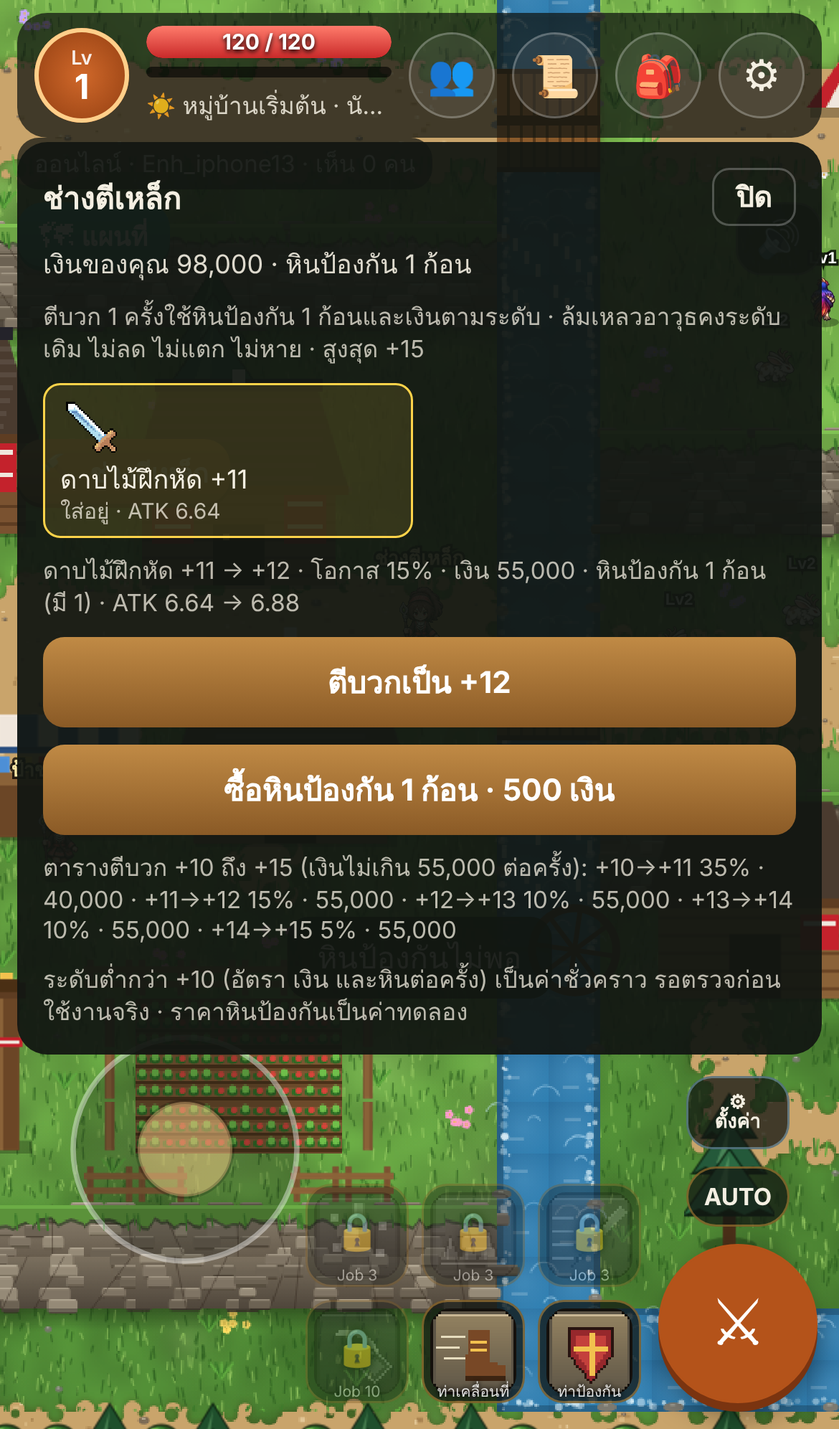
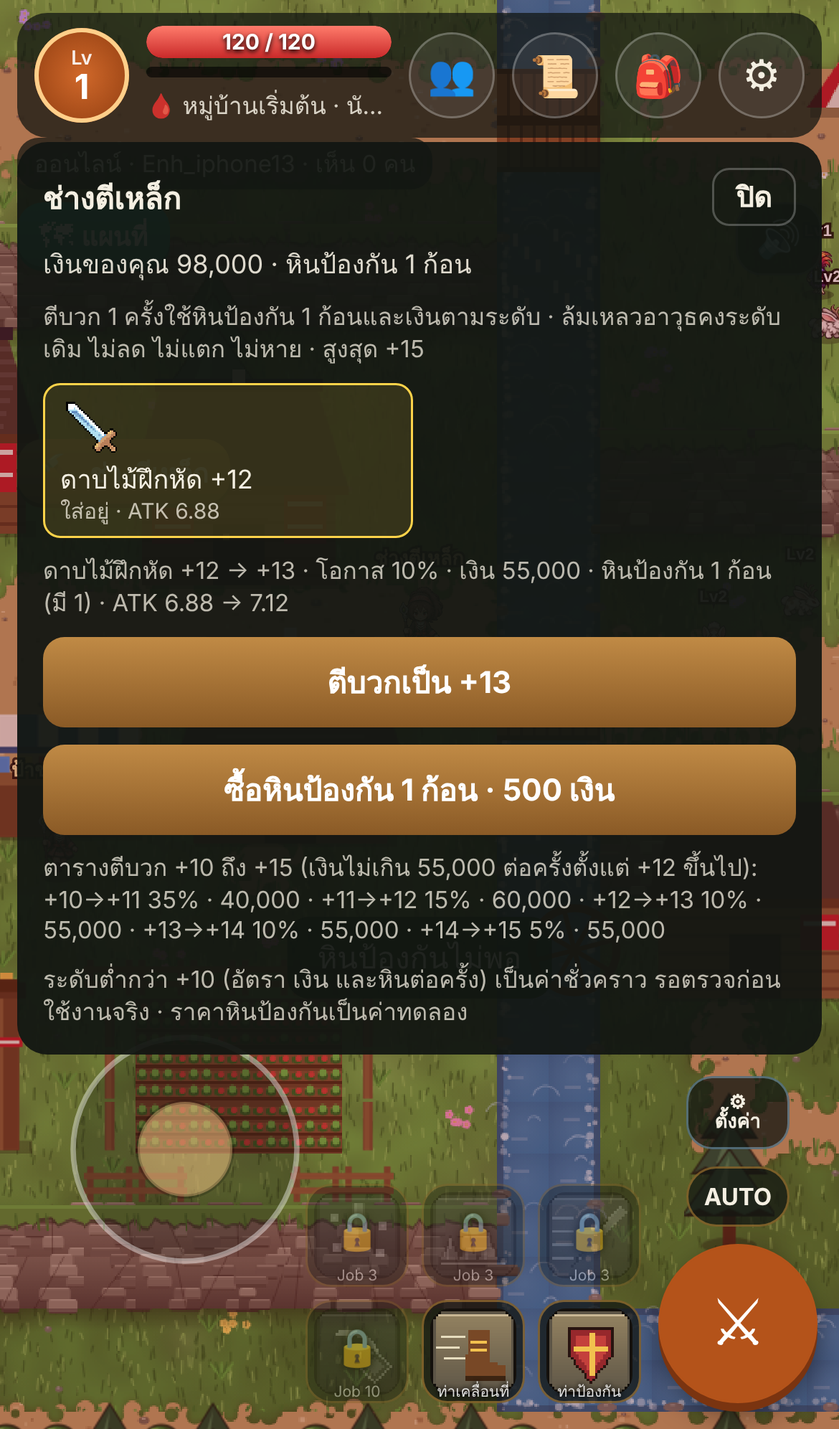
V2-R80: enhancement gold cap of 55,000 applies from +12 upward
- Owner instruction "ตั้งแต่ 12+ ขึ้นไป": the cap applies to enhancements that start at +12 or above
  (+12 to +13, +13 to +14, +14 to +15). CFG.enhance.goldCapFrom = 12.
  The +11 to +12 step is back to its V1.2 value of 60,000 (V2-R79 had capped from +11).
- Server (sim.enhance) and the panel (enhGold) use the same rule.
- Total gold for +10 to +15: 2,714,286 (V2-R79: 2,680,952; before the cap: 6,814,286).
  Attempts and stones unchanged (49.5).
- Tests: tools/enh-test.js 60/60 (+11 keeps 60,000 and is not capped; +12 costs 55,000 on the
  server and in the panel on both phone viewports). sim 120, online 104, smoke 152.
  /healthz reports V2-R80. Shop, class-weapon, idle, splash-login and character audit were
  not rerun after this change.

Claude-Session: https://claude.ai/code/session_01Fx9SAiv1fdMtU2kmML8rNS

diff --git a/game/index.html b/game/index.html
@@ -597,8 +597,8 @@ const CFG={
  /* เศรษฐกิจ (V2-R73): เงินเริ่มต้น · เงินต่อค่าประสบการณ์ของมอนสเตอร์ · เงินบอส · ระยะซื้อของ (ช่อง) — ค่าทดลอง */
  economy:{startGold:100,goldPerExp:.12,bossGold:150,shopRange:3.5},
  /* ตีบวกอาวุธ (V2-R78 · ข้อกำหนด V1.2 ฉบับยืนยัน): steps[ระดับปัจจุบัน] = โอกาสสำเร็จ · เงินต่อครั้ง · หินป้องกันต่อครั้ง
-    ยืนยันแล้ว: +10 ถึง +15 · ระดับ +0 ถึง +9 (prov:1) เป็นค่าชั่วคราวรอตรวจ · goldCap 55,000 = เพดานเงินต่อการพยายาม (คำสั่งเจ้าของ V2-R79; steps คงค่า V1.2 ไว้ให้ตรวจย้อนหลัง) · powerPerLv (ATK ต่อระดับตีบวก) เป็นค่าทดลอง ยังไม่มีข้อกำหนดยืนยัน */
- enhance:{cap:15,stone:'enh_stone',powerPerLv:.06,cooldownMs:800,goldCap:55000,steps:[{rate:1,gold:2000,stone:1,prov:1},{rate:1,gold:2000,stone:1,prov:1},{rate:1,gold:2000,stone:1,prov:1},{rate:.85,gold:5000,stone:1,prov:1},{rate:.85,gold:5000,stone:1,prov:1},{rate:.85,gold:5000,stone:1,prov:1},{rate:.65,gold:15000,stone:1,prov:1},{rate:.65,gold:15000,stone:1,prov:1},{rate:.65,gold:15000,stone:1,prov:1},{rate:.65,gold:15000,stone:1,prov:1},{rate:.35,gold:40000,stone:1},{rate:.15,gold:60000,stone:1},{rate:.1,gold:90000,stone:1},{rate:.1,gold:140000,stone:1},{rate:.05,gold:200000,stone:1}]},
+    ยืนยันแล้ว: +10 ถึง +15 · ระดับ +0 ถึง +9 (prov:1) เป็นค่าชั่วคราวรอตรวจ · goldCap 55,000 = เพดานเงินต่อการพยายามตั้งแต่ระดับ goldCapFrom (+12) ขึ้นไป (คำสั่งเจ้าของ V2-R79; ขอบเขตแก้ใน V2-R80; steps คงค่า V1.2 ไว้ให้ตรวจย้อนหลัง) · powerPerLv (ATK ต่อระดับตีบวก) เป็นค่าทดลอง ยังไม่มีข้อกำหนดยืนยัน */
+ enhance:{cap:15,stone:'enh_stone',powerPerLv:.06,cooldownMs:800,goldCapFrom:12,goldCap:55000,steps:[{rate:1,gold:2000,stone:1,prov:1},{rate:1,gold:2000,stone:1,prov:1},{rate:1,gold:2000,stone:1,prov:1},{rate:.85,gold:5000,stone:1,prov:1},{rate:.85,gold:5000,stone:1,prov:1},{rate:.85,gold:5000,stone:1,prov:1},{rate:.65,gold:15000,stone:1,prov:1},{rate:.65,gold:15000,stone:1,prov:1},{rate:.65,gold:15000,stone:1,prov:1},{rate:.65,gold:15000,stone:1,prov:1},{rate:.35,gold:40000,stone:1},{rate:.15,gold:60000,stone:1},{rate:.1,gold:90000,stone:1},{rate:.1,gold:140000,stone:1},{rate:.05,gold:200000,stone:1}]},
  classWeapon:{'นักดาบ':'sword','นักธนู':'bow','นักฆ่า':'daggers','นักสู้':'fists','ผู้สืบวิญญาณ':'staff','ผู้รักษา':'leafstaff','ผู้ใช้มนตรา':'book','ผู้พิทักษ์':'shield'},
  /* NPC ร้านค้า (V2-R73): ตำแหน่งเป็นช่อง · ร้านขาย [ไอเทม, ราคา] — ค่าทดลอง ยังไม่มีข้อกำหนดยืนยัน */
  npcs:[{id:'shop1',name:'ป้าขายของ',zone:'village',tx:12.5,ty:18.6,shop:[['potion_s',10],['potion_m',30],['sword_wood',50],['sword_iron',150],['bow_wood',50],['bow_iron',150],['daggers_wood',50],['daggers_iron',150],['fists_wood',50],['fists_iron',150],['staff_wood',50],['staff_iron',150],['leafstaff_wood',50],['leafstaff_iron',150],['book_wood',50],['book_iron',150],['shield_wood',50],['shield_iron',150]]},{id:'shop2',name:'ป้าขายของ',zone:'village2',tx:22.5,ty:22.6,shop:[['potion_s',10],['potion_m',30],['sword_wood',50],['sword_iron',150],['bow_wood',50],['bow_iron',150],['daggers_wood',50],['daggers_iron',150],['fists_wood',50],['fists_iron',150],['staff_wood',50],['staff_iron',150],['leafstaff_wood',50],['leafstaff_iron',150],['book_wood',50],['book_iron',150],['shield_wood',50],['shield_iron',150]]},{id:'smith1',name:'ช่างตีเหล็ก',role:'smith',zone:'village',tx:19.5,ty:14.5,shop:[['enh_stone',500]]},{id:'smith2',name:'ช่างตีเหล็ก',role:'smith',zone:'village2',tx:25.5,ty:15.5,shop:[['enh_stone',500]]}],
@@ -1814,6 +1814,7 @@ function enhStones(){let n=0;for(const s of NET.bag)if(s.id===HL.CFG.enhance.sto
 function enhAtk(id,lv){return Math.round(((HL.CFG.items[id]||{}).atk||0)*(1+HL.CFG.enhance.powerPerLv*lv)*100)/100} /* ทศนิยม 2 ตำแหน่ง: อาวุธ ATK ต่ำ โบนัสต่อระดับจะไม่หายไปจากการปัดเศษ */
 function enhCur(ws){if(!ws.length)return null;const hit=enhSel&&ws.find(w=>w.src===enhSel.src&&w.i===enhSel.i);if(hit)return hit;enhSel={src:ws[0].src,i:ws[0].i};return ws[0]}
 function enhNum(n){return Number(n).toLocaleString('en-US')}
+function enhGold(lv){const E=HL.CFG.enhance,s=E.steps[lv];return lv>=E.goldCapFrom?Math.min(s.gold,E.goldCap):s.gold} /* เงินต่อการพยายามจริง: เพดานมีผลตั้งแต่ระดับ goldCapFrom ขึ้นไป */
 function enhNote(t,cls){const d=document.createElement('div');d.className=cls||'note';d.textContent=t;enhP.appendChild(d)}
 function enhGo(w){if(enhBusy||!w)return;enhBusy=true;enhRid++;send({t:'enh',src:w.src,i:w.i,rid:'e'+enhRid+'-'+Date.now().toString(36)});setTimeout(()=>{if(enhBusy){enhBusy=false;renderEnh()}},3000);renderEnh()}
 function renderEnh(){if(enhP.hidden)return;const E=HL.CFG.enhance,I=HL.CFG.items,sm=shopNpc&&shopNpc.role==='smith'?shopNpc:null;enhP.innerHTML='';
@@ -1832,10 +1833,10 @@ function renderEnh(){if(enhP.hidden)return;const E=HL.CFG.enhance,I=HL.CFG.items
   if(cur){const it=I[cur.id],lv=cur.enh;
     if(lv>=E.cap)enhNote(it.name+' ถึงระดับสูงสุด +'+E.cap+' แล้ว');
     else{const s=E.steps[lv];
-      enhNote(it.name+' +'+lv+' → +'+(lv+1)+' · โอกาส '+Math.round(s.rate*100)+'% · เงิน '+enhNum(Math.min(s.gold,E.goldCap))+' · หินป้องกัน '+s.stone+' ก้อน (มี '+enhStones()+') · ATK '+enhAtk(cur.id,lv)+' → '+enhAtk(cur.id,lv+1)+(s.prov?' · ค่าชั่วคราว':''));
+      enhNote(it.name+' +'+lv+' → +'+(lv+1)+' · โอกาส '+Math.round(s.rate*100)+'% · เงิน '+enhNum(enhGold(lv))+' · หินป้องกัน '+s.stone+' ก้อน (มี '+enhStones()+') · ATK '+enhAtk(cur.id,lv)+' → '+enhAtk(cur.id,lv+1)+(s.prov?' · ค่าชั่วคราว':''));
       const go=document.createElement('button');go.className='enhgo';go.textContent=enhBusy?'กำลังตีบวก…':'ตีบวกเป็น +'+(lv+1);go.disabled=enhBusy;go.onclick=()=>enhGo(cur);enhP.appendChild(go)}}
   if(sm){const row=sm.shop.find(r=>r[0]===E.stone),bb=document.createElement('button');bb.className='enhgo';bb.textContent='ซื้อหินป้องกัน 1 ก้อน · '+enhNum(row?row[1]:0)+' เงิน';bb.onclick=()=>send({t:'shop',npc:sm.id,id:E.stone,n:1});enhP.appendChild(bb)}
-  enhNote('ตารางตีบวก +10 ถึง +15 (เงินไม่เกิน '+enhNum(E.goldCap)+' ต่อครั้ง): '+E.steps.slice(10).map((s,k)=>'+'+(k+10)+'→+'+(k+11)+' '+Math.round(s.rate*100)+'% · '+enhNum(Math.min(s.gold,E.goldCap))).join(' · '));
+  enhNote('ตารางตีบวก +10 ถึง +15 (เงินไม่เกิน '+enhNum(E.goldCap)+' ต่อครั้งตั้งแต่ +'+E.goldCapFrom+' ขึ้นไป): '+E.steps.slice(10).map((s,k)=>'+'+(k+10)+'→+'+(k+11)+' '+Math.round(s.rate*100)+'% · '+enhNum(enhGold(k+10))).join(' · '));
   enhNote('ระดับต่ำกว่า +10 (อัตรา เงิน และหินต่อครั้ง) เป็นค่าชั่วคราว รอตรวจก่อนใช้งานจริง · ราคาหินป้องกันเป็นค่าทดลอง');
 }
 /* หน้าต่างสถานะ (V2-R24): แตะวงเลเวลมุมซ้ายบน */

diff --git a/tools/enh-test.js b/tools/enh-test.js
@@ -25,7 +25,7 @@ const countStone = c => c.bag.reduce((n, s) => n + (s.id === EH.stone ? s.n : 0)
 {
   const V12 = [[.35, 40000], [.15, 60000], [.10, 90000], [.10, 140000], [.05, 200000]];
   rec('ระดับตีบวกสูงสุด +15', EH.cap === 15);
-  rec('เพดานเงินต่อการพยายาม 55,000 (คำสั่งเจ้าของ V2-R79)', EH.goldCap === 55000);
+  rec('เพดาน 55,000 เริ่มตั้งแต่ระดับ +12 ขึ้นไป (คำสั่งเจ้าของ V2-R80)', EH.goldCap === 55000 && EH.goldCapFrom === 12);
   rec('ตารางที่ยืนยันแล้ว +10→+11 ถึง +14→+15 (โอกาส · เงิน · หินป้องกัน 1)', V12.every(([r, g], k) => { const s = EH.steps[10 + k]; return s.rate === r && s.gold === g && s.stone === 1 && !s.prov; }));
   rec('ค่าต่ำกว่า +10 ติดธง prov (ค่าชั่วคราว รอตรวจ)', EH.steps.slice(0, 10).every(s => s.prov === 1));
   rec('หินป้องกันเป็นวัตถุดิบ (mat)', !!C.items[EH.stone] && C.items[EH.stone].type === 'mat');
@@ -71,10 +71,15 @@ const countStone = c => c.bag.reduce((n, s) => n + (s.id === EH.stone ? s.n : 0)
   rec('ล้มเหลวที่ +10 → คงที่ +10 ไม่ลด ไม่หาย', !r9.ok && r9.to === 10 && p9.c.enh.weapon === 10 && p9.c.eq.weapon === 'sword_hmong' && p9.c.gold === 1000000 - 40000 && countStone(p9.c) === 1, JSON.stringify({ ok: r9.ok, enh: p9.c.enh.weapon, gold: p9.c.gold, stone: countStone(p9.c) }));
   const p10 = mk({ enh: { weapon: 15 }, eq: { weapon: 'sword_hmong', armor: null, acc: null } }); p10.c.bag.push({ id: 'enh_stone', n: 2 });
   rec('ถึง +15 แล้ว → max (ตีบวกต่อไม่ได้)', simLow.enhance(p10, { src: 'eq', rid: rid() }, 600) === 'max');
-  // เพดานเงินต่อการพยายาม 55,000: ขั้น +11 ถึง +14 จ่ายไม่เกิน 55,000 (ค่า V1.2 เดิม 60,000 ถึง 200,000) · ขั้น +10 ยัง 40,000
+  // เพดาน 55,000 เริ่มตั้งแต่ระดับ +12 ขึ้นไป: ที่ +11 ยังจ่าย 60,000 (ค่า V1.2) และที่ +12 จ่ายไม่เกิน 55,000 (จาก 90,000)
   const pC = mk({ gold: 55000, enh: { weapon: 11 }, eq: { weapon: 'sword_hmong', armor: null, acc: null } }); pC.c.bag.push({ id: 'enh_stone', n: 1 });
-  const rC = sim.enhance(pC, { src: 'eq', rid: rid() }, 800);
-  rec('ตีบวกจาก +11 จ่ายเพียง 55,000 (ไม่ใช่ 60,000) และหักครบ', rC.ok && rC.to === 12 && rC.gold === 55000 && pC.c.gold === 0, JSON.stringify({ gold: rC.gold, left: pC.c.gold, to: rC.to }));
+  rec('ที่ +11 ยังต้อง 60,000 (ไม่ถูกจำกัด) → เงิน 55,000 ไม่พอ', sim.enhance(pC, { src: 'eq', rid: rid() }, 800) === 'no-gold' && pC.c.gold === 55000);
+  const pC11 = mk({ gold: 60000, enh: { weapon: 11 }, eq: { weapon: 'sword_hmong', armor: null, acc: null } }); pC11.c.bag.push({ id: 'enh_stone', n: 1 });
+  const rC11 = sim.enhance(pC11, { src: 'eq', rid: rid() }, 800);
+  rec('ตีบวกจาก +11 จ่าย 60,000 (ค่า V1.2) และหักครบ', rC11.ok && rC11.to === 12 && rC11.gold === 60000 && pC11.c.gold === 0, JSON.stringify({ gold: rC11.gold, left: pC11.c.gold, to: rC11.to }));
+  const pC12 = mk({ gold: 55000, enh: { weapon: 12 }, eq: { weapon: 'sword_hmong', armor: null, acc: null } }); pC12.c.bag.push({ id: 'enh_stone', n: 1 });
+  const rC12 = sim.enhance(pC12, { src: 'eq', rid: rid() }, 800);
+  rec('ตีบวกจาก +12 จ่ายเพียง 55,000 (ไม่ใช่ 90,000) และหักครบ', rC12.ok && rC12.to === 13 && rC12.gold === 55000 && pC12.c.gold === 0, JSON.stringify({ gold: rC12.gold, left: pC12.c.gold, to: rC12.to }));
   const pC2 = mk({ gold: 54999, enh: { weapon: 14 }, eq: { weapon: 'sword_hmong', armor: null, acc: null } }); pC2.c.bag.push({ id: 'enh_stone', n: 1 });
   rec('เงิน 54,999 ไม่พอสำหรับ +14 (เพดาน 55,000) → no-gold และไม่หัก', sim.enhance(pC2, { src: 'eq', rid: rid() }, 800) === 'no-gold' && pC2.c.gold === 54999);
   const pT = mk({ gold: 40000, enh: { weapon: 10 }, eq: { weapon: 'sword_hmong', armor: null, acc: null } }); pT.c.bag.push({ id: 'enh_stone', n: 1 });
@@ -206,11 +211,15 @@ const countStone = c => c.bag.reduce((n, s) => n + (s.id === EH.stone ? s.n : 0)
     await page.click('#shb');
     await page.waitForSelector('#enh:not([hidden])', { timeout: 5000 });
     await sleep(400);
-    // เพดานเงินต่อการพยายาม: ที่ +11 ต้องแสดงเงิน 55,000 (ไม่ใช่ 60,000) — ถ่ายภาพที่สถานะนี้ แล้วคืนค่าเดิมสำหรับการตรวจฐานข้อมูลด้านล่าง
+    // ขอบเขตเพดาน: ตั้งแต่ระดับ +12 ขึ้นไปเท่านั้น — ที่ +11 แสดง 60,000 และที่ +12 แสดง 55,000 (ถ่ายภาพที่ +12) แล้วคืนค่าเดิมสำหรับการตรวจฐานข้อมูลด้านล่าง
     p.c.enh.weapon = 11; p.c.bag.push({ id: 'enh_stone', n: 1 }); p.bagDirty = true; p.dirty = true;
     await page.waitForFunction(() => (document.getElementById('enh').innerText || '').includes('+11 → +12'), null, { timeout: 6000 });
     const t11 = await panel();
-    rec(label + ': หน้าช่างที่ +11 แสดงเงิน 55,000 (เพดาน) ไม่ใช่ 60,000', t11.includes('เงิน 55,000') && !t11.includes('เงิน 60,000'), t11.split('\n').filter(l => l.includes('+11 → +12')).join(' | ').slice(0, 140));
+    rec(label + ': หน้าช่างที่ +11 แสดงเงิน 60,000 (ยังไม่ถึงเพดาน)', t11.includes('เงิน 60,000') && !t11.includes('เงิน 55,000'), t11.split('\n').filter(l => l.includes('+11 → +12')).join(' | ').slice(0, 140));
+    p.c.enh.weapon = 12; p.bagDirty = true; p.dirty = true;
+    await page.waitForFunction(() => (document.getElementById('enh').innerText || '').includes('+12 → +13'), null, { timeout: 6000 });
+    const t12 = await panel();
+    rec(label + ': หน้าช่างที่ +12 แสดงเงิน 55,000 (เพดานตั้งแต่ +12)', t12.includes('เงิน 55,000') && !t12.includes('เงิน 90,000'), t12.split('\n').filter(l => l.includes('+12 → +13')).join(' | ').slice(0, 140));
     await page.screenshot({ path: path.join(evDir, shot) });
     p.c.enh.weapon = 1; p.c.bag = p.c.bag.filter(x => x.id !== 'enh_stone'); p.bagDirty = true; p.dirty = true;
     rec(label + ': ไม่มี JavaScript error', errors.length === 0, errors.slice(0, 3).join(' | ') || 'ไม่มี');

diff --git a/shared/world.js b/shared/world.js
@@ -299,8 +299,8 @@ const CFG={
  /* เศรษฐกิจ (V2-R73): เงินเริ่มต้น · เงินต่อค่าประสบการณ์ของมอนสเตอร์ · เงินบอส · ระยะซื้อของ (ช่อง) — ค่าทดลอง */
  economy:{startGold:100,goldPerExp:.12,bossGold:150,shopRange:3.5},
  /* ตีบวกอาวุธ (V2-R78 · ข้อกำหนด V1.2 ฉบับยืนยัน): steps[ระดับปัจจุบัน] = โอกาสสำเร็จ · เงินต่อครั้ง · หินป้องกันต่อครั้ง
-    ยืนยันแล้ว: +10 ถึง +15 · ระดับ +0 ถึง +9 (prov:1) เป็นค่าชั่วคราวรอตรวจ · goldCap 55,000 = เพดานเงินต่อการพยายาม (คำสั่งเจ้าของ V2-R79; steps คงค่า V1.2 ไว้ให้ตรวจย้อนหลัง) · powerPerLv (ATK ต่อระดับตีบวก) เป็นค่าทดลอง ยังไม่มีข้อกำหนดยืนยัน */
- enhance:{cap:15,stone:'enh_stone',powerPerLv:.06,cooldownMs:800,goldCap:55000,steps:[{rate:1,gold:2000,stone:1,prov:1},{rate:1,gold:2000,stone:1,prov:1},{rate:1,gold:2000,stone:1,prov:1},{rate:.85,gold:5000,stone:1,prov:1},{rate:.85,gold:5000,stone:1,prov:1},{rate:.85,gold:5000,stone:1,prov:1},{rate:.65,gold:15000,stone:1,prov:1},{rate:.65,gold:15000,stone:1,prov:1},{rate:.65,gold:15000,stone:1,prov:1},{rate:.65,gold:15000,stone:1,prov:1},{rate:.35,gold:40000,stone:1},{rate:.15,gold:60000,stone:1},{rate:.1,gold:90000,stone:1},{rate:.1,gold:140000,stone:1},{rate:.05,gold:200000,stone:1}]},
+    ยืนยันแล้ว: +10 ถึง +15 · ระดับ +0 ถึง +9 (prov:1) เป็นค่าชั่วคราวรอตรวจ · goldCap 55,000 = เพดานเงินต่อการพยายามตั้งแต่ระดับ goldCapFrom (+12) ขึ้นไป (คำสั่งเจ้าของ V2-R79; ขอบเขตแก้ใน V2-R80; steps คงค่า V1.2 ไว้ให้ตรวจย้อนหลัง) · powerPerLv (ATK ต่อระดับตีบวก) เป็นค่าทดลอง ยังไม่มีข้อกำหนดยืนยัน */
+ enhance:{cap:15,stone:'enh_stone',powerPerLv:.06,cooldownMs:800,goldCapFrom:12,goldCap:55000,steps:[{rate:1,gold:2000,stone:1,prov:1},{rate:1,gold:2000,stone:1,prov:1},{rate:1,gold:2000,stone:1,prov:1},{rate:.85,gold:5000,stone:1,prov:1},{rate:.85,gold:5000,stone:1,prov:1},{rate:.85,gold:5000,stone:1,prov:1},{rate:.65,gold:15000,stone:1,prov:1},{rate:.65,gold:15000,stone:1,prov:1},{rate:.65,gold:15000,stone:1,prov:1},{rate:.65,gold:15000,stone:1,prov:1},{rate:.35,gold:40000,stone:1},{rate:.15,gold:60000,stone:1},{rate:.1,gold:90000,stone:1},{rate:.1,gold:140000,stone:1},{rate:.05,gold:200000,stone:1}]},
  classWeapon:{'นักดาบ':'sword','นักธนู':'bow','นักฆ่า':'daggers','นักสู้':'fists','ผู้สืบวิญญาณ':'staff','ผู้รักษา':'leafstaff','ผู้ใช้มนตรา':'book','ผู้พิทักษ์':'shield'},
  /* NPC ร้านค้า (V2-R73): ตำแหน่งเป็นช่อง · ร้านขาย [ไอเทม, ราคา] — ค่าทดลอง ยังไม่มีข้อกำหนดยืนยัน */
  npcs:[{id:'shop1',name:'ป้าขายของ',zone:'village',tx:12.5,ty:18.6,shop:[['potion_s',10],['potion_m',30],['sword_wood',50],['sword_iron',150],['bow_wood',50],['bow_iron',150],['daggers_wood',50],['daggers_iron',150],['fists_wood',50],['fists_iron',150],['staff_wood',50],['staff_iron',150],['leafstaff_wood',50],['leafstaff_iron',150],['book_wood',50],['book_iron',150],['shield_wood',50],['shield_iron',150]]},{id:'shop2',name:'ป้าขายของ',zone:'village2',tx:22.5,ty:22.6,shop:[['potion_s',10],['potion_m',30],['sword_wood',50],['sword_iron',150],['bow_wood',50],['bow_iron',150],['daggers_wood',50],['daggers_iron',150],['fists_wood',50],['fists_iron',150],['staff_wood',50],['staff_iron',150],['leafstaff_wood',50],['leafstaff_iron',150],['book_wood',50],['book_iron',150],['shield_wood',50],['shield_iron',150]]},{id:'smith1',name:'ช่างตีเหล็ก',role:'smith',zone:'village',tx:19.5,ty:14.5,shop:[['enh_stone',500]]},{id:'smith2',name:'ช่างตีเหล็ก',role:'smith',zone:'village2',tx:25.5,ty:15.5,shop:[['enh_stone',500]]}],

diff --git a/server/server.js b/server/server.js
@@ -74,7 +74,7 @@ function createServer(opts = {}) {
     const url = new URL(req.url, 'http://x');
     for (const [k, v] of Object.entries(SEC_HEADERS)) res.setHeader(k, v);
     try {
-      if (req.method === 'GET' && url.pathname === '/healthz') return json(res, 200, { ok: true, ver: 'V2-R79', online: online.size, uptime: Math.round(process.uptime()), admins: conf.admins.length }); // admins = จำนวนชื่อใน ADMIN_USERS (ไม่เปิดเผยชื่อ) ใช้ตรวจว่าตั้งค่าบน Render แล้ว
+      if (req.method === 'GET' && url.pathname === '/healthz') return json(res, 200, { ok: true, ver: 'V2-R80', online: online.size, uptime: Math.round(process.uptime()), admins: conf.admins.length }); // admins = จำนวนชื่อใน ADMIN_USERS (ไม่เปิดเผยชื่อ) ใช้ตรวจว่าตั้งค่าบน Render แล้ว
       if (req.method === 'GET' && (url.pathname === '/' || url.pathname === '/index.html')) {
         res.writeHead(200, { 'content-type': 'text/html; charset=utf-8', 'cache-control': 'no-cache' });
         return fs.createReadStream(conf.gameFile).pipe(res);

diff --git a/server/sim.js b/server/sim.js
@@ -289,7 +289,7 @@ function createSim({ rand = Math.random } = {}) {
     const it = CFG.items[id]; if (!it || it.type !== 'eq' || it.slot !== 'weapon') return 'not-weapon';
     if (lv >= EH.cap) return 'max';
     const st = EH.steps[lv]; if (!st) return 'invalid';
-    const gold = Math.min(st.gold, EH.goldCap); // เพดานเงินต่อการพยายาม 55,000 ตามคำสั่งเจ้าของ (V2-R79)
+    const gold = lv >= EH.goldCapFrom ? Math.min(st.gold, EH.goldCap) : st.gold; // เพดาน 55,000 ตั้งแต่ระดับ +12 ขึ้นไป (คำสั่งเจ้าของ V2-R79/R80)
     if ((c.gold || 0) < gold) return 'no-gold';
     if (countItem(p, EH.stone) < st.stone) return 'no-stone';
     c.gold -= gold; takeItem(p, EH.stone, st.stone); // หักก่อนสุ่มเสมอ (ล้มเหลวก็หัก)

diff --git a/tools/weapon_balance.py b/tools/weapon_balance.py
@@ -23,9 +23,10 @@ def load_cfg():
 
 
 def step(cfg, lv):
-    """ค่าของขั้น lv หลังใช้เพดานเงินต่อการพยายาม (goldCap, คำสั่งเจ้าของ V2-R79)"""
+    """ค่าของขั้น lv หลังใช้เพดานเงินต่อการพยายาม (เพดานมีผลตั้งแต่ระดับ goldCapFrom ขึ้นไป)"""
     s = cfg['steps'][lv]
-    return s['rate'], min(s['gold'], cfg['goldCap']), s['stone'], bool(s.get('prov'))
+    g = min(s['gold'], cfg['goldCap']) if lv >= cfg['goldCapFrom'] else s['gold']
+    return s['rate'], g, s['stone'], bool(s.get('prov'))
 
 
 def expected(cfg, a, b):
@@ -66,7 +67,7 @@ def main():
         s = cfg['steps'][10 + k]
         assert abs(s['rate'] - r) < 1e-12 and s['gold'] == g and s['stone'] == 1 and not s.get('prov'), 'ไม่ตรงข้อกำหนด +%d' % (10 + k)
 
-    print('## 1. ตารางตีบวก +10 ถึง +15 (อ่านจาก CFG.enhance; เพดานเงินต่อครั้ง %s)' % f"{cfg['goldCap']:,}")
+    print('## 1. ตารางตีบวก +10 ถึง +15 (อ่านจาก CFG.enhance; เพดานเงินต่อครั้ง %s ตั้งแต่ +%d ขึ้นไป)' % (f"{cfg['goldCap']:,}", cfg['goldCapFrom']))
     print('| จาก → ไป | โอกาสสำเร็จ | เงินตาม V1.2 | เงินที่ใช้จริง | หินป้องกันต่อครั้ง | ครั้งที่คาดหวังในขั้นนี้ | เงินที่คาดหวังในขั้นนี้ |')
     print('| --- | --- | --- | --- | --- | --- | --- |')
     for lv in range(10, 15):

diff --git a/docs/ENHANCEMENT_V12.md b/docs/ENHANCEMENT_V12.md
@@ -1,4 +1,4 @@
-# ระบบตีบวกอาวุธ V1.2 (ฉบับยืนยัน) — สถานะการพัฒนา V2-R78 · แก้เพดานเงิน V2-R79
+# ระบบตีบวกอาวุธ V1.2 (ฉบับยืนยัน) — สถานะการพัฒนา V2-R78 · เพดานเงิน V2-R79/R80
 
 บันทึกเมื่อ 2026-11-15 · แทนที่ข้อเสนอ V1 ใน `docs/WEAPON_SYSTEM.md`
 
@@ -7,23 +7,23 @@
 | ส่วน | สถานะ |
 | --- | --- |
 | กติกาที่ยืนยันแล้ว (ส่วน 1–2 ของ V1.2) | **พัฒนาแล้ว · ทดสอบผ่านอัตโนมัติ** |
-| เพดานเงินต่อการพยายาม 55,000 (คำสั่งเจ้าของ V2-R79) | **ทำแล้ว · ทดสอบผ่านอัตโนมัติ** |
+| เพดานเงินต่อการพยายาม 55,000 ตั้งแต่ระดับ +12 ขึ้นไป (คำสั่งเจ้าของ V2-R79/R80) | **ทำแล้ว · ทดสอบผ่านอัตโนมัติ** |
 | ช่างตีเหล็ก หน้าต่างตีบวก คลังวัตถุดิบ โค้ดเซิร์ฟเวอร์ | **พัฒนาแล้ว · ทดสอบผ่านอัตโนมัติ** (Pixel 7 และ iPhone 13 บน Chromium) |
 | ติดตั้งในโค้ด | **ทำแล้ว** · ยังไม่ได้ deploy ขึ้นเซิร์ฟเวอร์จริง (Render) |
 | ค่าชั่วคราว (ส่วน 2) | **ยอมรับใช้ระหว่างทดสอบ** (ตอบ "1-2") · ยังไม่ใช่ค่าสุดท้าย |
-| เศรษฐกิจ +10 ถึง +15 (ส่วน 3) | **รอเจ้าของเลือกทาง** — หลังเพดานยังประมาณ 2.68 ล้านเงิน |
+| เศรษฐกิจ +10 ถึง +15 (ส่วน 3) | **รอเจ้าของเลือกทาง** — หลังเพดานยังประมาณ 2.71 ล้านเงิน |
 | WebKit / iPhone จริง | **ยังไม่ได้ทดสอบ** (เครื่องทดสอบมีเฉพาะ Chromium) |
 
 ## 1. ตารางตีบวก +10 ถึง +15
 
-จาก → ไป คืออัตราของการเสริมจากระดับปัจจุบัน (ตามที่เขียนใน V1.2)
+จาก → ไป คืออัตราของการเสริมจากระดับปัจจุบัน (ตามที่เขียนใน V1.2) ระดับในตารางคือระดับของอาวุธก่อนกดตีบวก
 
-ตามคำสั่งเจ้าของ (V2-R79) **เงินที่จ่ายต่อการพยายามจำกัดไม่เกิน 55,000** — ขั้นที่ค่า V1.2 เดิมเกินเพดานใช้ 55,000 แทน ค่าเดิมคงไว้ในตารางข้างล่างเพื่ออ้างอิง
+ตามคำสั่งเจ้าของ **เงินที่จ่ายต่อการพยายามจำกัดไม่เกิน 55,000 ตั้งแต่ระดับ +12 ขึ้นไป** — หมายถึงการตีบวกที่เริ่มจาก +12 ขึ้นไป (+12 → +13, +13 → +14, +14 → +15) ส่วน +11 → +12 ยังเป็นค่า V1.2 คือ 60,000 ค่า V1.2 เดิมคงไว้ในตารางเพื่ออ้างอิง
 
-| จาก → ไป | โอกาสสำเร็จ | เงินตาม V1.2 (อ้างอิง) | เงินที่ใช้จริง (เพดาน 55,000) | หินป้องกันต่อครั้ง |
+| จาก → ไป | โอกาสสำเร็จ | เงินตาม V1.2 (อ้างอิง) | เงินที่ใช้จริง | หินป้องกันต่อครั้ง |
 | --- | --- | --- | --- | --- |
 | +10 → +11 | 35% | 40,000 | **40,000** | 1 |
-| +11 → +12 | 15% | 60,000 | **55,000** | 1 |
+| +11 → +12 | 15% | 60,000 | **60,000** (ยังไม่ถึงเพดาน) | 1 |
 | +12 → +13 | 10% | 90,000 | **55,000** | 1 |
 | +13 → +14 | 10% | 140,000 | **55,000** | 1 |
 | +14 → +15 | 5% | 200,000 | **55,000** | 1 |
@@ -48,17 +48,17 @@
 
 ## 3. เศรษฐกิจ (รอเจ้าของเลือกทาง)
 
-ตัวเลขจาก `python3 -B tools/weapon_balance.py` (อ่านค่าจาก `CFG.enhance` รวมเพดาน 55,000 โดยตรง; จำลองแบบสุ่ม 100,000 ครั้งได้ค่าตรงภายใน 0.2%)
+ตัวเลขจาก `python3 -B tools/weapon_balance.py` (อ่านค่าจาก `CFG.enhance` รวมเพดานตั้งแต่ +12 โดยตรง; จำลองแบบสุ่ม 100,000 ครั้งได้ค่าตรงภายใน 0.2%)
 
 | ช่วง | ครั้งที่คาดหวัง | เงินที่คาดหวัง (หลังเพดาน) | หินป้องกันที่คาดหวัง |
 | --- | --- | --- | --- |
-| +10 ถึง +15 | 49.5 | **2,680,952** | 49.5 |
-| +0 ถึง +15 (รวมค่าชั่วคราว) | 62.2 | 2,796,907 | 62.2 |
+| +10 ถึง +15 | 49.5 | **2,714,286** | 49.5 |
+| +0 ถึง +15 (รวมค่าชั่วคราว) | 62.2 | 2,830,240 | 62.2 |
 
-อ้างอิง: ก่อนเพดาน 55,000 ค่า V1.2 เดิมจาก +10 ถึง +15 ใช้เงิน 6,814,286
+อ้างอิง: ก่อนเพดาน ค่า V1.2 เดิมจาก +10 ถึง +15 ใช้เงิน 6,814,286
 
 - เงินจากการล่าปัจจุบัน: EXP × 0.12 เงิน — เสือ (EXP 193) ให้ประมาณ 23 เงินต่อตัว
-- จ่ายเงิน +10 ถึง +15 ต้องล่าประมาณ **115,800 ตัว** (ก่อนเพดานประมาณ 294,000 ตัว) — ยังสูงกว่าเศรษฐกิจปัจจุบันมาก
+- จ่ายเงิน +10 ถึง +15 ต้องล่าประมาณ **117,200 ตัว** (ก่อนเพดานประมาณ 294,000 ตัว) — ยังสูงกว่าเศรษฐกิจปัจจุบันมาก
 - ทางเลือกที่เจ้าของต้องเลือก: (ก) ปรับ `CFG.economy` ทั้งเกม · (ข) ลดราคาขั้น +10 ถึง +15 เพิ่มเติม · (ค) เพิ่มแหล่งเงินและหินป้องกัน (ตอนนี้หินมีแหล่งเดียวคือซื้อที่ช่าง)
 - ผู้พัฒนาไม่ได้เปลี่ยนค่าเศรษฐกิจของเกมเอง
 
@@ -66,13 +66,13 @@
 
 | ส่วน | ที่อยู่ในโค้ด | รายละเอียด |
 | --- | --- | --- |
-| ค่ากลาง | `game/index.html` `CFG.enhance` (`goldCap: 55000`) · `CFG.npcs` (smith1, smith2) · `CFG.items.enh_stone` | ค่าทั้งหมดอยู่จุดเดียว เซิร์ฟเวอร์อ่านจาก `shared/world.js` ค่า `steps` คง V1.2 ไว้ |
-| ตรรกะตีบวก | `server/sim.js` `enhance()` | ตรวจ ระยะ คูลดาวน์ คำขอซ้ำ ระดับสูงสุด เงิน (ตามเพดาน) หิน แล้วหักและสุ่ม |
+| ค่ากลาง | `game/index.html` `CFG.enhance` (`goldCapFrom: 12`, `goldCap: 55000`) · `CFG.npcs` (smith1, smith2) · `CFG.items.enh_stone` | ค่าทั้งหมดอยู่จุดเดียว เซิร์ฟเวอร์อ่านจาก `shared/world.js` ค่า `steps` คง V1.2 ไว้ |
+| ตรรกะตีบวก | `server/sim.js` `enhance()` | ตรวจ ระยะ คูลดาวน์ คำขอซ้ำ ระดับสูงสุด เงิน (ตามเพดานตั้งแต่ +12) หิน แล้วหักและสุ่ม |
 | การย้ายอาวุธ | `server/sim.js` `inv()` `swapClassWeapon()` `addPlayer()` `stats()` | ค่าตีบวกติดไปกับอาวุธเมื่อใส่ ถอด เปลี่ยนอาชีพ |
 | ข้อความและการตอบ | `server/server.js` ข้อความ `enh` | สำเร็จ/ล้มเหลวส่งเป็นเหตุการณ์ของผู้เล่น ปฏิเสธส่ง `deny` พร้อมรหัสเหตุผล |
 | ฐานข้อมูล | `server/db.js` คอลัมน์ `characters.enh` · ตาราง `enh_log` · `logEnh()` | บันทึกทุกการพยายาม และบันทึกตัวละครทันทีหลังตีบวก |
 | ช่างตีเหล็ก | `game/index.html` `drawNpc` · `shopTick` · `toggleShop` | ปุ่ม 🔨 ช่างตีเหล็ก ขึ้นเมื่อยืนใกล้ · ทั่งเป็นภาพชั่วคราววาดด้วยโค้ด |
-| หน้าต่างตีบวก | `game/index.html` `#enh` · `renderEnh()` · `enhGo()` | เลือกอาวุธ (ที่ใส่อยู่และในกระเป๋า) · อัตรา เงิน (ตามเพดาน) หิน ATK · ปุ่มตีบวก · ปุ่มซื้อหิน · ตารางตีบวก +10 ถึง +15 |
+| หน้าต่างตีบวก | `game/index.html` `#enh` · `renderEnh()` · `enhGo()` · `enhGold()` | เลือกอาวุธ (ที่ใส่อยู่และในกระเป๋า) · อัตรา เงิน (ตามเพดาน) หิน ATK · ปุ่มตีบวก · ปุ่มซื้อหิน · ตารางตีบวก +10 ถึง +15 |
 | คลังวัตถุดิบ | ไอเทม `enh_stone` (ประเภท mat) ในกระเป๋า · ไอคอน `tools/build_enh_stone_icon.py` | แสดงเป็น "หินป้องกันการตีบวก ×N" · อาวุธที่ตีบวกแสดง "+N" ทั้งในกระเป๋าและช่องอาวุธ |
 
 ## 5. ข้อกำหนดฝั่งเซิร์ฟเวอร์ (ส่วน 3 ของ V1.2)
@@ -92,7 +92,7 @@
 | --- | --- | --- |
 | ระดับสูงสุด +15 | ยืนยัน | ทำแล้ว · ทดสอบผ่าน |
 | อัตราสำเร็จ +10 ถึง +15 | ยืนยัน | ทำแล้ว · ทดสอบผ่าน (จำลอง 20,000 ครั้งที่ +10 ได้ 35.1%) |
-| ค่าเงิน +10 ถึง +15 | ยืนยัน (ตาราง V1.2) · มีเพดาน 55,000 ต่อการพยายามตามคำสั่ง V2-R79 | ทำแล้ว · ทดสอบผ่าน |
+| ค่าเงิน +10 ถึง +15 | ยืนยัน (ตาราง V1.2) · เพดาน 55,000 ตั้งแต่ +12 ขึ้นไปตามคำสั่ง V2-R80 | ทำแล้ว · ทดสอบผ่าน |
 | หินป้องกัน 1 ก้อนทุกระดับ | ยืนยัน | ทำแล้ว · ทดสอบผ่าน |
 | ล้มเหลวแล้วไม่ลดระดับเมื่อใช้หิน | ยืนยัน | ทำแล้ว · ทดสอบผ่าน |
 | จำนวนวัตถุดิบพิเศษ | รออนุมัติ | **ยังไม่ทำ** (ตามข้อกำหนด) |
@@ -104,9 +104,9 @@
 
 | ชุดทดสอบ | ผล | หมายเหตุ |
 | --- | --- | --- |
-| `tools/enh-test.js` (ใหม่) | **56/56** | ค่าตั้งและตรรกะ 28 (รวมเพดาน 55,000 สามข้อ) · ฐานข้อมูล 2 · เกม Pixel 7 13 · เกม iPhone 13 13 (รวมการแสดงเงิน 55,000 ที่ +11) · ผลของการรันล่าสุด `docs/evidence/enh_r78_test_output.txt` |
-| `tools/sim-test.js` | 120/120 | รันซ้ำหลังแก้เพดาน |
-| `tools/online-test.js` | 104/104 | รันซ้ำหลังแก้เพดาน |
+| `tools/enh-test.js` (ใหม่) | **60/60** | ค่าตั้งและตรรกะ 30 (รวมขอบเขตเพดานที่ +11 และ +12) · ฐานข้อมูล 2 · เกม Pixel 7 14 · เกม iPhone 13 14 (แสดง 60,000 ที่ +11 และ 55,000 ที่ +12) · ผลของการรันล่าสุด `docs/evidence/enh_r78_test_output.txt` |
+| `tools/sim-test.js` | 120/120 | รันซ้ำหลังแก้ขอบเขตเพดาน |
+| `tools/online-test.js` | 104/104 | รันซ้ำหลังแก้ขอบเขตเพดาน |
 | `tools/smoke-test.js` | 152/152 | รันซ้ำหลังแก้หน้าต่างตีบวก |
 | `tools/shop-test.js` | 16/16 | ผลจากรอบ V2-R78 (ไม่ได้รันซ้ำหลังแก้เพดาน) |
 | `tools/class-weapon-test.js` | 12/12 | ผลจากรอบ V2-R78 (ไม่ได้รันซ้ำหลังแก้เพดาน) |
@@ -114,7 +114,7 @@
 | `tools/splash-login-test.js` | 7/7 | ผลจากรอบ V2-R78 (ไม่ได้รันซ้ำหลังแก้เพดาน) |
 | `tools/character_audit.py` | 16/16 | ผลจากรอบ V2-R78 (ไม่ได้รันซ้ำหลังแก้เพดาน) |
 
-หลักฐานภาพหน้าจอ: `docs/evidence/enh_r78_panel_pixel7.png` และ `docs/evidence/enh_r78_panel_iphone13.png` (ภาพถ่ายที่สถานะ +11 แสดงเงิน 55,000)
+หลักฐานภาพหน้าจอ: `docs/evidence/enh_r78_panel_pixel7.png` และ `docs/evidence/enh_r78_panel_iphone13.png` (ภาพถ่ายที่สถานะ +12 แสดงเงิน 55,000)
 
 ## 8. สิ่งที่ยังไม่ได้ทำหรือยังไม่รู้
 
@@ -129,10 +129,12 @@
 
 > **ตอบ "1-2" (2026-11-15):** ผู้พัฒนาตีความว่าตกลงข้อ 1 และ 2 ตามที่เสนอ — ค่าชั่วคราวใช้ต่อระหว่างทดสอบ และเศรษฐกิจยังไม่เปลี่ยนค่าในตอนนั้น
 >
-> **คำสั่งเจ้าของ (V2-R79):** จำกัดเงินต่อการพยายามตีบวกไม่เกิน 55,000 — ทำแล้ว (ส่วน 1)
+> **คำสั่งเจ้าของ (V2-R79):** จำกัดเงินต่อการพยายามตีบวกไม่เกิน 55,000 — ทำแล้ว
+>
+> **คำสั่งเจ้าของ (V2-R80, "ตั้งแต่ 12+ ขึ้นไป"):** ผู้พัฒนาตีความว่าเพดาน 55,000 เริ่มที่การตีบวกจาก +12 ขึ้นไป ส่วน +11 → +12 กลับเป็น 60,000 ตามค่า V1.2 (แก้จากรอบ V2-R79 ที่ใส่เพดานตั้งแต่ +11) ถ้าหมายถึงให้คิดจากระดับเป้าหมาย 12 ขึ้นไป (ทำให้ +11 → +12 ถูกจำกัดด้วย) แจ้งได้
 
 1. ค่าชั่วคราว +0 ถึง +9 (อัตรา เงิน) ใช้ต่อระหว่างทดสอบ · ยืนยันเป็นค่าสุดท้ายเมื่อไร
-2. เศรษฐกิจ: หลังเพดาน 55,000 ยังจ่าย +10 ถึง +15 ประมาณ 2.68 ล้านเงิน (ประมาณ 115,800 ตัวจากเสือ) ต้องการให้ปรับแบบใด (ดูส่วน 3)
+2. เศรษฐกิจ: หลังเพดานยังจ่าย +10 ถึง +15 ประมาณ 2.71 ล้านเงิน (ประมาณ 117,200 ตัวจากเสือ) ต้องการให้ปรับแบบใด (ดูส่วน 3)
 3. หินป้องกัน: ราคาที่ช่าง (ตอนนี้ 500) และแหล่งที่มาเพิ่มเติม
 4. โบนัส ATK ต่อระดับ 6% ยืนยัน หรือเปลี่ยน
 5. ตำแหน่งช่างตีเหล็กในหมู่บ้านทั้งสองแห่ง ยอมรับหรือย้าย

diff --git a/docs/DECISIONS.md b/docs/DECISIONS.md
@@ -39,3 +39,4 @@
 | 2026-11-15 | วัตถุดิบพิเศษและระบบการันตี | ยังไม่ทำ | V1.2 ระบุว่า "รออนุมัติ" และ "ยังไม่อนุมัติ" |
 | 2026-11-15 | ตอบ "1-2" ต่อคำถามข้อ 1 และ 2 ของรายงาน V2-R78 (เศรษฐกิจ และค่าชั่วคราว) | ตกลงตามที่เสนอ: ค่าชั่วคราว +0 ถึง +9, โบนัส ATK 6%, หิน 500 และตำแหน่งช่างใช้ต่อระหว่างทดสอบ · เศรษฐกิจ +10 ถึง +15 ยังไม่เปลี่ยนค่า รอเลือกทาง | ผู้พัฒนาตีความเอง ไม่ใช่การอนุมัติตัวเลข 6.8 ล้านเงิน · เจ้าของแก้ได้ (`docs/ENHANCEMENT_V12.md` ส่วน 9) |
 | 2026-11-15 | เพดานเงินต่อการพยายามตีบวก (V2-R79) | จำกัดไม่เกิน 55,000 ต่อการพยายาม ตามคำสั่งเจ้าของ · ขั้น +11 ถึง +14 ที่เกินเพดานใช้ 55,000 · ขั้น +10 → +11 (40,000) ไม่เปลี่ยน | ค่า V1.2 เดิมยังอยู่ในตาราง `steps` เพื่ออ้างอิง · รวม +10 ถึง +15 เหลือ 2,680,952 เงิน · ตีความเป็นเพดานต่อการพยายาม ไม่ใช่ยอดรวม (`docs/ENHANCEMENT_V12.md` ส่วน 1) |
+| 2026-11-15 | เพดาน 55,000 ขอบเขต (V2-R80) | เริ่มตั้งแต่การตีบวกจาก +12 ขึ้นไป (`goldCapFrom` = 12) ตามคำสั่ง "ตั้งแต่ 12+ ขึ้นไป" · +11 → +12 กลับเป็น 60,000 (ค่า V1.2) | แก้จาก V2-R79 ที่ใส่เพดานตั้งแต่ +11 · รวม +10 ถึง +15 เป็น 2,714,286 เงิน · ถ้าหมายถึงระดับเป้าหมาย 12 ขึ้นไป แจ้งได้ (`docs/ENHANCEMENT_V12.md` ส่วน 9) |

diff --git a/docs/CHANGELOG.md b/docs/CHANGELOG.md
@@ -1,5 +1,15 @@
 # ประวัติเวอร์ชัน
 
+## V2-R80 — 2026-11-15 (เพดาน 55,000 เริ่มตั้งแต่ระดับ +12 ขึ้นไป: แก้ขอบเขตจาก V2-R79)
+
+- ตามคำสั่งเจ้าของ "ตั้งแต่ 12+ ขึ้นไป": เพดาน 55,000 ต่อการพยายามมีผลตั้งแต่การตีบวกที่เริ่มจาก +12 ขึ้นไป (+12 → +13, +13 → +14, +14 → +15) ส่วน +11 → +12 กลับเป็น 60,000 ตามค่า V1.2 (แก้จาก V2-R79 ที่ใส่เพดานตั้งแต่ +11)
+- ตั้งค่า `CFG.enhance.goldCapFrom = 12` · เซิร์ฟเวอร์ (`sim.enhance`) และหน้าต่างตีบวก (`enhGold()`) ใช้ค่านี้ร่วมกัน
+- รวม +10 ถึง +15 เหลือ 2,714,286 เงิน (ก่อนเพดาน 6,814,286; V2-R79 ได้ 2,680,952) จำนวนครั้งและหินไม่เปลี่ยน (49.5)
+- `/healthz` เป็น `V2-R80`
+- ทดสอบ: `tools/enh-test.js` 60/60 (ที่ +11 ยังเป็น 60,000 และไม่ถูกจำกัด · ที่ +12 เป็น 55,000 ทั้งในเซิร์ฟเวอร์และในหน้าต่างตีบวก 2 จุด) · sim 120/120 · online 104/104 · smoke 152/152
+- ชุดอื่นไม่ได้รันซ้ำหลังการแก้นี้ ผลยังเป็นของรอบ V2-R78
+- ยังไม่ได้ deploy ขึ้น Render
+
 ## V2-R79 — 2026-11-15 (เพดานเงินต่อการพยายามตีบวก 55,000 ตามคำสั่งเจ้าของ)
 
 - ตามคำสั่งเจ้าของ: เงินที่จ่ายต่อการพยายามตีบวกจำกัดไม่เกิน 55,000 — ขั้น +11 ถึง +14 ใช้ 55,000 แทน 60,000 ถึง 200,000 ค่า V1.2 เดิมยังอยู่ในตาราง `CFG.enhance.steps` เพื่ออ้างอิง ขั้น +10 → +11 (40,000) ไม่เปลี่ยน

diff --git a/docs/STATUS.md b/docs/STATUS.md
@@ -37,7 +37,7 @@
 | 4 | คลังวัตถุดิบ: หินป้องกันเป็นวัตถุดิบในกระเป๋า แสดง ×N · อาวุธแสดง +N | ทดสอบผ่าน (อัตโนมัติ) | `tools/enh-test.js` ส่วนที่ 3 |
 | 4 | โค้ดเซิร์ฟเวอร์ตีบวก: สุ่มบนเซิร์ฟเวอร์ คำขอซ้ำ คูลดาวน์ บันทึกประวัติ | ทดสอบผ่าน (ในเครื่อง) · ยังไม่ deploy | `tools/enh-test.js` ส่วนที่ 1–2 · ตาราง `enh_log` |
 | 4 | ค่าชั่วคราว: อัตรา/เงิน +0 ถึง +9 · ATK 6% ต่อระดับ · ราคาหิน 500 · ตำแหน่งช่าง | รอตัดสิน | `docs/ENHANCEMENT_V12.md` ส่วน 2 |
-| 4 | เพดานเงินต่อการพยายาม 55,000 (คำสั่งเจ้าของ V2-R79) · เศรษฐกิจ +10 ถึง +15 ≈ 2.68 ล้านเงิน | เพดานทำแล้ว · เศรษฐกิจรอตัดสิน | `tools/enh-test.js` 56/56 · `docs/ENHANCEMENT_V12.md` ส่วน 3 |
+| 4 | เพดานเงินต่อการพยายาม 55,000 ตั้งแต่ +12 ขึ้นไป (คำสั่งเจ้าของ V2-R80) · เศรษฐกิจ +10 ถึง +15 ≈ 2.71 ล้านเงิน | เพดานทำแล้ว · เศรษฐกิจรอตัดสิน | `tools/enh-test.js` 60/60 · `docs/ENHANCEMENT_V12.md` ส่วน 3 |
 | 4 | วัตถุดิบพิเศษและระบบการันตี | ยังไม่ทำ (รออนุมัติ / ยังไม่อนุมัติ) | ตาม V1.2 ส่วน 4 |
 | 7 | ตัวละคร 8 อาชีพ × ชาย/หญิง | ทดสอบผ่าน | character_audit 16/16 (V2-R70) |
 | 7 | สกิล 15 ต่ออาชีพ ช่อง 6 ช่อง | พบปัญหา | BUG-003 |

diff --git a/docs/BALANCE.md b/docs/BALANCE.md
@@ -48,7 +48,7 @@
 ## V2-R78 (ตีบวกอาวุธ V1.2): ค่าเศรษฐกิจและค่าโจมตี
 
 - `CFG.economy` ยังไม่เปลี่ยน (startGold 100 · goldPerExp 0.12 · bossGold 150)
-- จาก +10 ถึง +15 ต้องเงินประมาณ **2.68 ล้าน** (หลังเพดาน 55,000 ต่อการพยายามตามคำสั่งเจ้าของ V2-R79; ก่อนเพดาน 6.81 ล้าน) และหิน 49.5 ก้อน
-- เสือ (EXP 193) ให้เงินประมาณ 23 ต่อตัว → ต้องล่าประมาณ 115,800 ตัวเพื่อจ่าย +10 ถึง +15 (ก่อนเพดานประมาณ 294,000 ตัว) ยังสูงกว่าเศรษฐกิจปัจจุบันมาก
+- จาก +10 ถึง +15 ต้องเงินประมาณ **2.71 ล้าน** (เพดาน 55,000 ต่อการพยายามตั้งแต่ +12 ขึ้นไป ตามคำสั่งเจ้าของ V2-R80; ก่อนเพดาน 6.81 ล้าน) และหิน 49.5 ก้อน
+- เสือ (EXP 193) ให้เงินประมาณ 23 ต่อตัว → ต้องล่าประมาณ 117,200 ตัวเพื่อจ่าย +10 ถึง +15 (ก่อนเพดานประมาณ 294,000 ตัว) ยังสูงกว่าเศรษฐกิจปัจจุบันมาก
 - โบนัส ATK ของการตีบวก = ATK ฐานอาวุธ × 0.06 × ระดับ (ค่าชั่วคราว): ดาบไม้ ATK 4 ที่ +15 ได้ 7.6 · ดาบด้ามแดง ATK 24 ที่ +15 ได้ 45.6 เทียบกับ ATK ฐานผู้เล่น Lv.50 ประมาณ 159
 - ตัวเลขทั้งหมดทำซ้ำได้ด้วย `python3 -B tools/weapon_balance.py` และอ้างอิงใน `docs/ENHANCEMENT_V12.md` ส่วน 3

diff --git a/docs/PLAN_NEXT.md b/docs/PLAN_NEXT.md
@@ -212,4 +212,4 @@
 - ทำแล้ว: ช่างตีเหล็ก (หมู่บ้านเริ่มต้นทั้งสองแห่ง) · หน้าต่างตีบวก · คลังวัตถุดิบ (หินป้องกัน) · ตรรกะเซิร์ฟเวอร์พร้อมประวัติ `enh_log`
 - ทดสอบอัตโนมัติ: `tools/enh-test.js` 50/50 และชุดเดิมทั้งหมดผ่าน (sim 120 · shop 16 · class-weapon 12 · online 104 · smoke 152 · idle 6 · splash-login 7 · character_audit 16)
 - ยังไม่ทำ: จำนวนวัตถุดิบพิเศษ (รออนุมัติ) · ระบบการันตี (ยังไม่อนุมัติ) · WebKit/iPhone จริง · deploy ขึ้น Render
-- รอเจ้าของ (`docs/ENHANCEMENT_V12.md` ส่วน 9): ยืนยันค่าชั่วคราว +0 ถึง +9 · เศรษฐกิจที่จ่าย +10 ถึง +15 ≈ 2.68 ล้านเงิน หลังเพดาน 55,000 ต่อการพยายาม (V2-R79; ก่อนเพดาน 6.8 ล้าน) · ราคาและแหล่งหินป้องกัน · โบนัส ATK 6% · ตำแหน่งช่าง · เวลานำขึ้นเซิร์ฟเวอร์จริง
+- รอเจ้าของ (`docs/ENHANCEMENT_V12.md` ส่วน 9): ยืนยันค่าชั่วคราว +0 ถึง +9 · เศรษฐกิจที่จ่าย +10 ถึง +15 ≈ 2.71 ล้านเงิน หลังเพดาน 55,000 ตั้งแต่ +12 ขึ้นไป (V2-R80; ก่อนเพดาน 6.8 ล้าน) · ราคาและแหล่งหินป้องกัน · โบนัส ATK 6% · ตำแหน่งช่าง · เวลานำขึ้นเซิร์ฟเวอร์จริง
